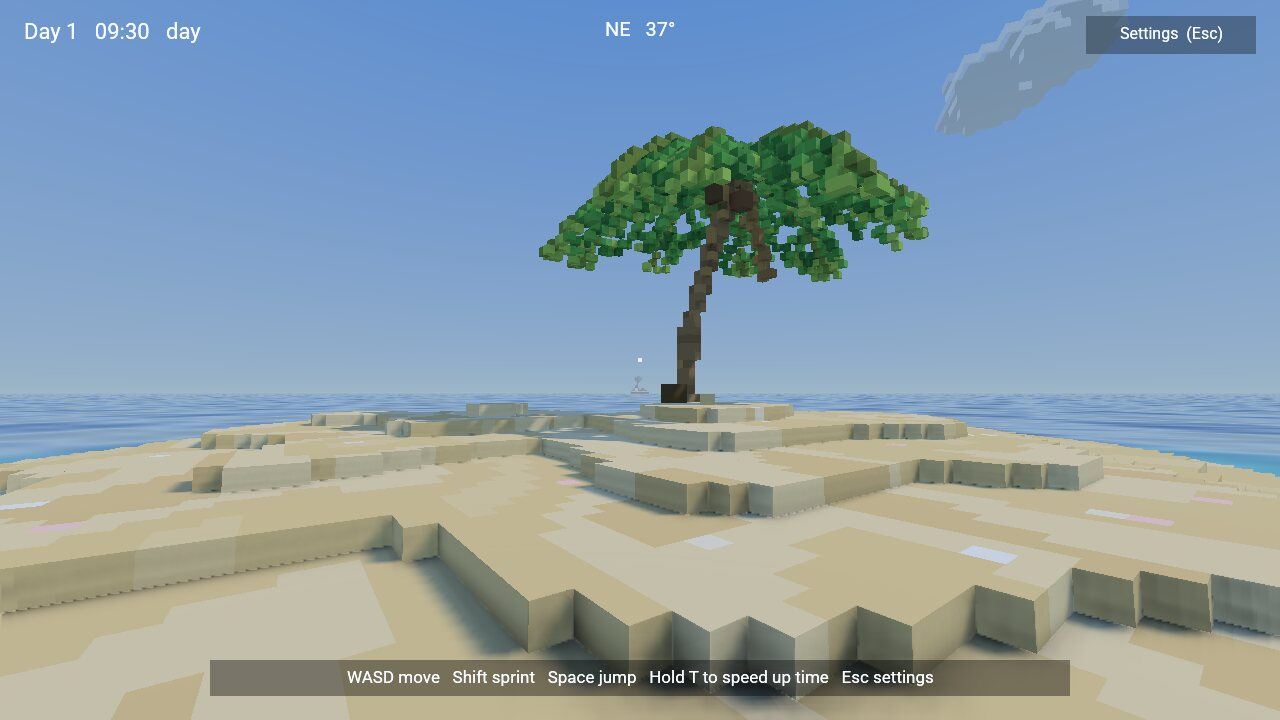
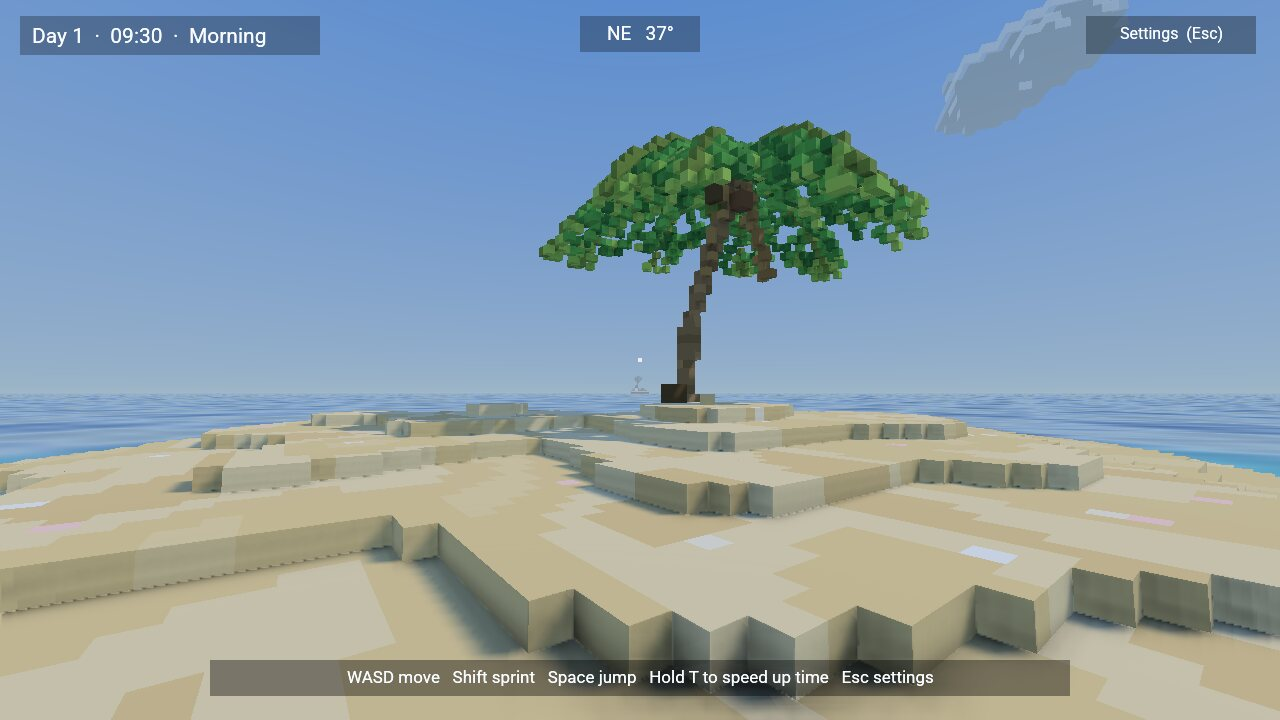
Polish the Sand Island HUD and step the shadow-casting sun
The clock names the part of the day and sits on a translucent backing
with the compass, and labels are rewritten only when their text changes;
the FPS readout updates four times a second. The light moves in tenths of
a degree, so the shadow map is not redrawn every tick and its edges do
not crawl while the visible sun, moon and sky move smoothly.

Changed region(s): [[0.0, 0.0, 0.25, 0.0917], [0.4375, 0.0, 0.5625, 0.0917]]

diff --git a/tools/gen_island.py b/tools/gen_island.py
@@ -1037,14 +1037,20 @@ fn on_update(me, dt) {{
     set_fog(mix([0.0, 0.0, 0.0], horizon, {SKY_INTENSITY}), density);
     set_star_intensity(0.8 * (1.0 - island::smooth(-0.2, -0.02, e)));
 
-    // One directional light: the sun by day, the moon by night, dark in between.
+    // One directional light: the sun by day, the moon by night, dark in between. The
+    // light steps in tenths of a degree, so the shadow map is not redrawn (and its edges
+    // do not crawl) every tick while the visible discs and the sky move smoothly.
     let daylight = island::smooth(-0.02, 0.3, e);
     set_scene_variable("daylight", daylight);
+    let step = 0.00174533;
+    let q = round(theta / step) * step;
+    let light_sun = [cos(q), sin(q) * cos(TILT), sin(q) * sin(TILT)];
+    let light_moon = [-light_sun[0], -light_sun[1], light_sun[2] * 0.6 + 0.25];
     if e > -0.03 {{
-        set_sun_direction(sun);
+        set_sun_direction(light_sun);
         set_sun_light(mix([1.0, 0.42, 0.16], [1.0, 0.96, 0.88], island::smooth(0.0, 0.4, e)), {SUN_INTENSITY} * daylight);
     }} else {{
-        set_sun_direction(moon);
+        set_sun_direction(light_moon);
         set_sun_light([0.55, 0.66, 1.0], 0.32 * island::smooth(-0.02, 0.3, moon[1]));
     }}
     set_ambient_light(mix([0.42, 0.52, 0.95], [0.86, 0.93, 1.0], daylight), 0.03 + 0.06 * daylight);
@@ -1170,6 +1176,19 @@ fn cycle(list, current) {
     list[(i + 1) % list.len()]
 }
 
+// Rewrite a label only when its text changes; the last text is kept on this object.
+fn show(id, key, text) {
+    if text != get_object_variable(key) {
+        set_object_variable(key, text);
+        set_ui_text(id, text);
+    }
+}
+
+fn part_of_day(hours) {
+    if hours < 5.0 || hours >= 21.0 { "Night" } else if hours < 11.0 { "Morning" }
+    else if hours < 14.0 { "Midday" } else if hours < 18.0 { "Afternoon" } else { "Evening" }
+}
+
 fn on_start(me) {
     set_ui_value("ui-opt-vsync", if get_vsync_setting() { 1.0 } else { 0.0 });
     set_ui_text("ui-opt-quality", `Quality: ${title(get_quality_setting())}`);
@@ -1210,17 +1229,17 @@ fn on_update(me, dt) {
     if sensitivity != get_scene_variable("sensitivity") {
         set_scene_variable("sensitivity", sensitivity);
     }
-    set_ui_text("ui-opt-sensitivity", `Mouse sensitivity   ${island::fixed(sensitivity, 2)}x`);
+    show("ui-opt-sensitivity", "sensitivity_text", `Mouse sensitivity   ${island::fixed(sensitivity, 2)}x`);
     let fov = round(get_ui_value("ui-opt-fov"));
     if fov != get_scene_variable("fov") {
         set_scene_variable("fov", fov);
     }
-    set_ui_text("ui-opt-fov", `Field of view   ${fov.to_int()}°`);
+    show("ui-opt-fov", "fov_text", `Field of view   ${fov.to_int()}°`);
     set_scene_variable("invert_y", get_ui_value("ui-opt-invert") > 0.5);
     set_scene_variable("bobbing", get_ui_value("ui-opt-bob") > 0.5);
     let distance = round(get_ui_value("ui-opt-distance"));
     set_scene_variable("view_distance", distance);
-    set_ui_text("ui-opt-distance", `View distance   ${DISTANCE[distance.to_int()]}`);
+    show("ui-opt-distance", "distance_text", `View distance   ${DISTANCE[distance.to_int()]}`);
     let shadows = get_ui_value("ui-opt-shadows") > 0.5;
     if shadows != get_scene_variable("shadows") {
         set_scene_variable("shadows", shadows);
@@ -1246,22 +1265,22 @@ fn on_update(me, dt) {
     }
     let show_fps = get_ui_value("ui-opt-fps") > 0.5;
     set_ui_visible("ui-fps", show_fps);
-    if show_fps {
+    if show_fps && elapsed_time() - get_object_variable("fps_at") > 0.25 {
+        set_object_variable("fps_at", elapsed_time());
         let stats = render_stats();
         if stats.available && stats.rate_ready {
-            set_ui_text("ui-fps", `${round(stats.fps).to_int()} FPS   ${island::fixed(stats.frame_ms, 1)} ms`);
+            show("ui-fps", "fps_text", `${round(stats.fps).to_int()} FPS   ${island::fixed(stats.frame_ms, 1)} ms`);
         }
     }
 
     // Clock and compass.
     let hours = get_scene_variable("time_of_day");
     let day = get_scene_variable("day").to_int();
-    let sun_up = hours >= 6.0 && hours < 18.0;
-    set_ui_text("ui-clock", `Day ${day}   ${island::hours_text(hours)}   ${if sun_up { "day" } else { "night" }}`);
+    show("ui-clock", "clock_text", `Day ${day}  ·  ${island::hours_text(hours)}  ·  ${part_of_day(hours)}`);
     let yaw = get_object_variable("player", "yaw");
     let heading = (360.0 - (yaw % 360.0) + 360.0) % 360.0;
     let index = (round(heading / 45.0).to_int()) % 8;
-    set_ui_text("ui-compass", `${HEADINGS[index]}   ${round(heading).to_int() % 360}°`);
+    show("ui-compass", "compass_text", `${HEADINGS[index]}   ${round(heading).to_int() % 360}°`);
 
     // Toast messages fade out after a few seconds; the controls hint after the intro.
     let since = elapsed_time() - get_scene_variable("toast_time");
@@ -1302,12 +1321,16 @@ def widget(object_id, name, parent, **fields):
 def ui_objects():
     objs = [{"id": "ui", "name": "HUD / settings menu (Esc)", "transform": tf((0, 0, 0)),
              "ui_canvas": {"layer": "3d", "reference": [1280, 720], "scaling": "fit", "order": 10},
+             "blackboard": {key: text("") for key in ("clock_text", "compass_text", "fps_text", "sensitivity_text",
+                                                      "fov_text", "distance_text")} | {"fps_at": number(-1)},
              "script_manager": {"scripts": [{"enabled": True, "script": "hud-script"}]}}]
     hud = [
-        widget("ui-clock", "Clock", "ui", order=1, text="Day 1   08:00", font_size=22,
-               anchors=anchors((0, 0), (0, 0), (0, 0), (24, 18), (420, 34))),
-        widget("ui-compass", "Compass", "ui", order=2, text="N", font_size=20, text_alignment="center",
-               anchors=anchors((0.5, 0), (0.5, 0), (0.5, 0), (0, 18), (300, 34))),
+        widget("ui-clock", "Clock", "ui", order=1, text="Day 1  ·  08:00  ·  Morning", font_size=21,
+               background=[0.0, 0.0, 0.0, 0.28], padding=[12, 7, 12, 7], auto_text_width=True,
+               anchors=anchors((0, 0), (0, 0), (0, 0), (20, 16), (300, 38))),
+        widget("ui-compass", "Compass", "ui", order=2, text="N", font_size=19, text_alignment="center",
+               background=[0.0, 0.0, 0.0, 0.28], padding=[14, 7, 14, 7], auto_text_width=True,
+               anchors=anchors((0.5, 0), (0.5, 0), (0.5, 0), (0, 16), (120, 36))),
         widget("ui-crosshair", "Crosshair", "ui", kind="panel", order=3, background=[1.0, 1.0, 1.0, 0.8],
                anchors=anchors((0.5, 0.5), (0.5, 0.5), (0.5, 0.5), (0, 0), (4, 4))),
         widget("ui-settings-button", "Settings button", "ui", kind="button", order=4, text="Settings  (Esc)",

diff --git a/examples/sand-island/README.md b/examples/sand-island/README.md
@@ -68,7 +68,9 @@ terraces feel like a smooth slope. The palm trunk is a post to walk around.
 
 `scripts/world.rhai` keeps the clock as whole game seconds plus a fraction, so the
 8× rate stays exact over a long session. It moves the scene's single sun light
-between the sun and the moon with `set_sun_direction`. It also blends the sky, fog,
+between the sun and the moon with `set_sun_direction`. The light moves in steps of a
+tenth of a degree, so the shadow map isn't redrawn every tick and shadow edges don't
+crawl; the visible sun and moon still move smoothly. It also blends the sky, fog,
 ambient light and stars by the sun's height. The scene sets a 32 m
 [sun shadow distance](../../docs/lighting.md#sun-shadow-distance), so shadows stay
 sharp even with the ship more than a kilometre away.
